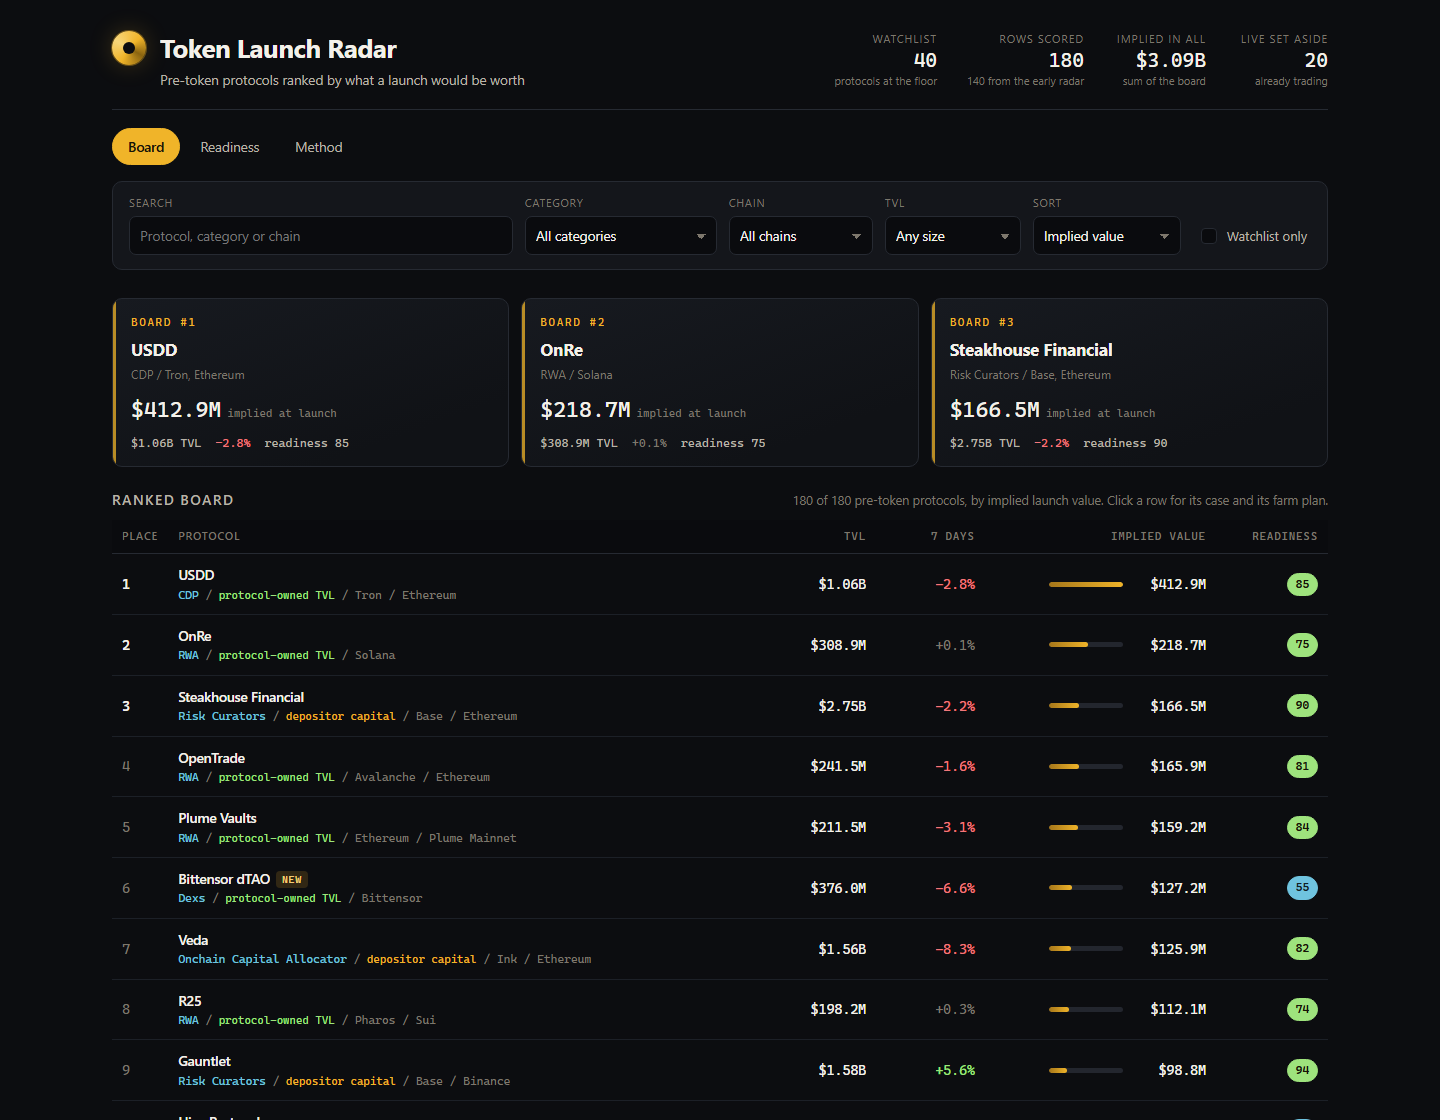
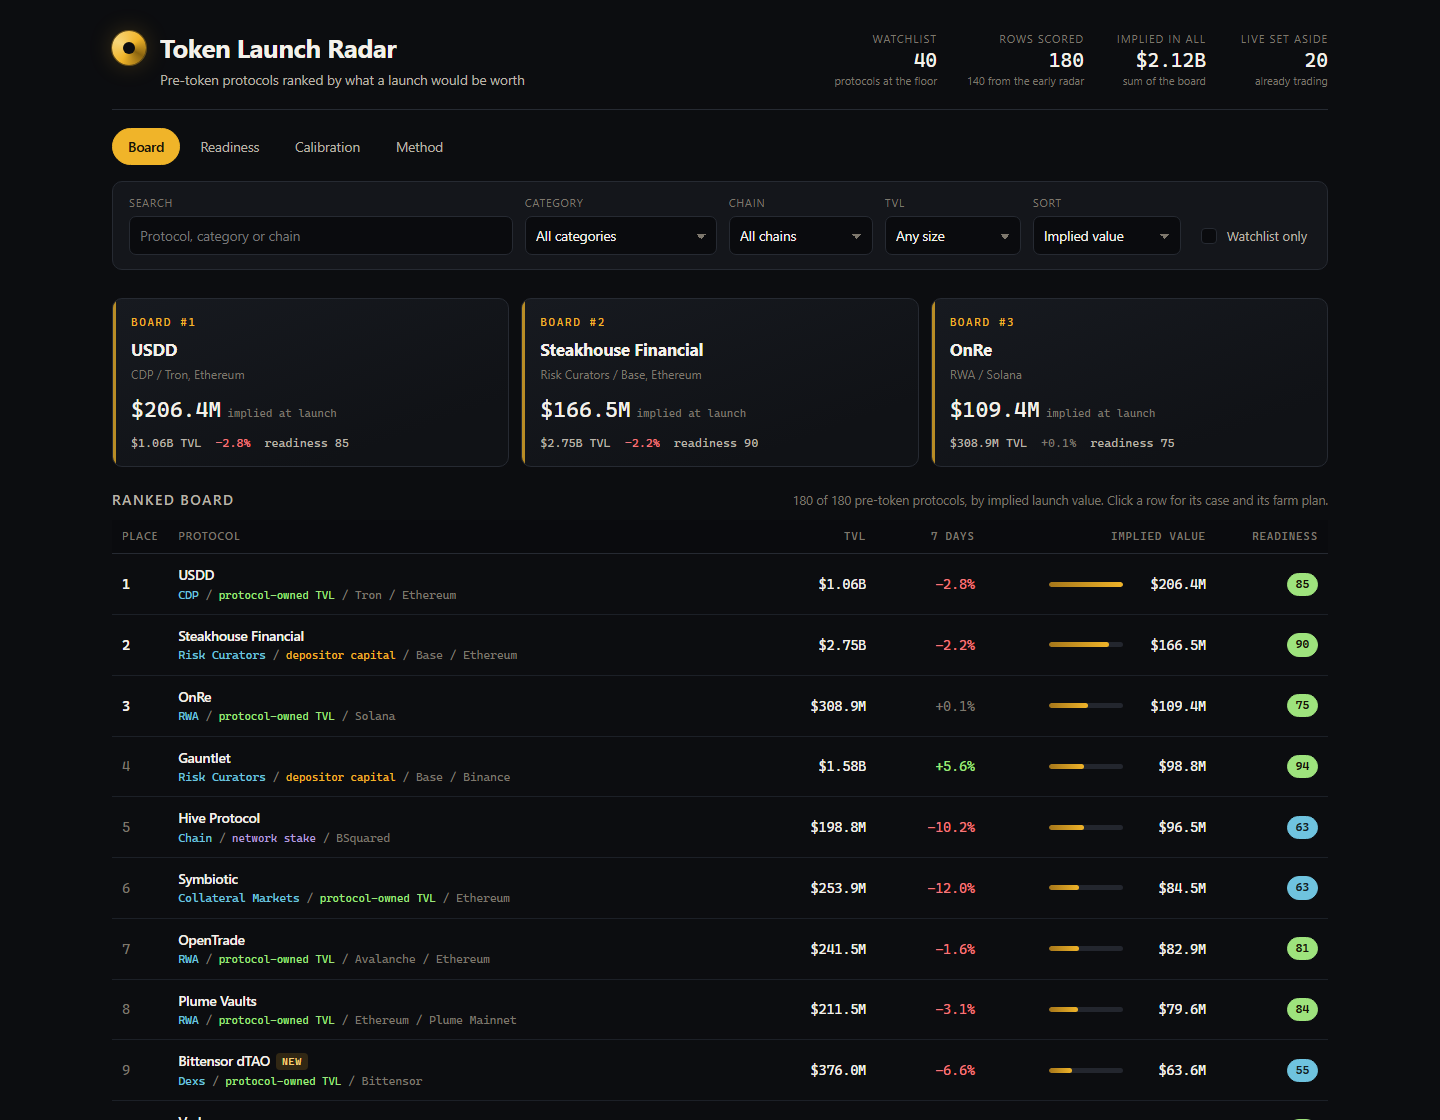
Calibrate the sector multiples on the snapshot's own live protocols

diff --git a/lib/model.ts b/lib/model.ts
@@ -127,7 +127,9 @@ export interface RadarData {
   board_size: number;
   early_size: number;
   live_size: number;
+  launch_discount: number;
   sector_multiples: Record<string, number>;
+  calibration: CategoryEvidence[];
   rows: RadarRow[];
   live: LiveRow[];
 }
@@ -235,6 +237,93 @@ export const TVL_KIND_LABEL: Record<TvlKind, string> = {
 /** The multiple an unlisted category gets: the middle of the run above. */
 export const DEFAULT_SECTOR = 0.3;
 
+/**
+ * A launch is priced below a live market, for two reasons: the token sells into demand that does not
+ * exist yet, and a launch valuation is set before the market has had a chance to disagree. So where a
+ * category already trades in this snapshot, its observed median market cap over TVL is discounted to
+ * become the launch multiple, instead of being copied.
+ */
+export const LAUNCH_DISCOUNT = 0.35;
+
+/** How far the evidence may move a prior: never below half of it, never above two and a half times. */
+export const MULTIPLE_BAND = { low: 0.5, high: 2.5 };
+
+/** The hand-set prior for a category, before the snapshot's own live protocols have a say. */
+export function priorMultiple(category: string | null): number {
+  if (category === null) return DEFAULT_SECTOR;
+  const direct = SECTOR_MULTIPLES[category];
+  if (direct !== undefined) return direct;
+  // DefiLlama keeps adding sub-categories ("Dexs (Derivatives)", "RWA Lending"); match on the stem.
+  const lower = category.toLowerCase();
+  for (const [name, multiple] of Object.entries(SECTOR_MULTIPLES)) {
+    if (lower.startsWith(name.toLowerCase())) return multiple;
+  }
+  return DEFAULT_SECTOR;
+}
+
+/** What a category's live protocols price at: the median market cap over TVL, and how many it is. */
+export interface CategoryEvidence {
+  category: string | null;
+  live: number;
+  observed_median: number | null;
+  prior: number;
+  used: number;
+  source: 'evidence' | 'prior';
+}
+
+/** The median of a list of numbers, or null for an empty list. */
+function median(values: number[]): number | null {
+  if (values.length === 0) return null;
+  const sorted = values.slice().sort((a, b) => a - b);
+  const mid = Math.floor(sorted.length / 2);
+  return sorted.length % 2 === 1 ? sorted[mid]! : (sorted[mid - 1]! + sorted[mid]!) / 2;
+}
+
+/**
+ * Every category's multiple, from the snapshot's own evidence: the median market cap over TVL of the
+ * protocols in that category that already trade, discounted for launch and held inside the band
+ * around the prior. A category with fewer than two live protocols keeps its prior, because one
+ * comparison is an anecdote.
+ */
+export function categoryEvidence(snapshot: Snapshot): CategoryEvidence[] {
+  const groups = new Map<string | null, number[]>();
+  for (const p of snapshot.protocols) {
+    if (isPreToken(p)) continue;
+    if (p.category === 'CEX') continue;
+    if (p.mcap_usd === null || p.mcap_usd <= 0 || p.tvl_usd <= 0) continue;
+    const key = p.category;
+    const list = groups.get(key) ?? [];
+    list.push(p.mcap_usd / p.tvl_usd);
+    groups.set(key, list);
+  }
+  const categories = new Set<string | null>();
+  for (const p of snapshot.protocols) categories.add(p.category);
+  const out: CategoryEvidence[] = [];
+  for (const category of categories) {
+    const ratios = groups.get(category) ?? [];
+    const prior = priorMultiple(category);
+    const observed = ratios.length >= 2 ? median(ratios) : null;
+    let used = prior;
+    let source: 'evidence' | 'prior' = 'prior';
+    if (observed !== null && observed > 0) {
+      const discounted = observed * LAUNCH_DISCOUNT;
+      used = Math.min(prior * MULTIPLE_BAND.high, Math.max(prior * MULTIPLE_BAND.low, discounted));
+      used = Math.round(used * 1e4) / 1e4;
+      source = 'evidence';
+    }
+    out.push({ category, live: ratios.length, observed_median: observed === null ? null : Math.round(observed * 1e4) / 1e4, prior, used, source });
+  }
+  out.sort((a, b) => (a.category ?? '').localeCompare(b.category ?? ''));
+  return out;
+}
+
+/** A lookup from category to the multiple the board used, built from `categoryEvidence`. */
+export function multipleLookup(evidence: CategoryEvidence[]): (category: string | null) => number {
+  const map = new Map<string | null, number>();
+  for (const e of evidence) map.set(e.category, e.used);
+  return (category) => map.get(category) ?? priorMultiple(category);
+}
+
 /** Where a chain's TVL is worth more: deeper liquidity and a livelier token market. */
 export const CHAIN_WEIGHTS: Record<string, number> = {
   Ethereum: 1.15,
@@ -339,9 +428,9 @@ export function isRankable(p: SnapshotProtocol): boolean {
 export function impliedValue(
   p: SnapshotProtocol,
   asOf: string,
+  sector: number = sectorMultiple(p.category),
 ): { implied: number; age: number | null; sector: number; chain: number; growth: number; maturity: number } {
   const age = ageDays(asOf, p.listed_at);
-  const sector = sectorMultiple(p.category);
   const chain = chainMultiplier(p.chains);
   const growth = growthMultiplier(p.change_7d).multiplier;
   const maturity = maturityMultiplier(age);
@@ -577,7 +666,7 @@ function bySlug(protocols: SnapshotProtocol[]): Map<string, SnapshotProtocol> {
 }
 
 /** The protocols the board ranks, strongest first, with ranks 1..n. */
-export function buildBoard(snapshot: Snapshot): BoardRow[] {
+export function buildBoard(snapshot: Snapshot, multipleOf: (category: string | null) => number = priorMultiple): BoardRow[] {
   const index = bySlug(snapshot.protocols);
   const chosen = new Map<string, SnapshotProtocol>();
   // The watchlist is a floor of coverage, never a ceiling: every slug it names is ranked.
@@ -592,7 +681,7 @@ export function buildBoard(snapshot: Snapshot): BoardRow[] {
     .slice(0, EARLY_ROWS);
   for (const p of early) chosen.set(p.slug, p);
 
-  const scored = [...chosen.values()].map((p) => ({ p, ...impliedValue(p, snapshot.as_of) }));
+  const scored = [...chosen.values()].map((p) => ({ p, ...impliedValue(p, snapshot.as_of, multipleOf(p.category)) }));
   scored.sort((a, b) => b.implied - a.implied || (a.p.slug < b.p.slug ? -1 : a.p.slug > b.p.slug ? 1 : 0));
   return scored.map((s, i) => ({
     rank: i + 1,
@@ -640,8 +729,11 @@ export function liveRows(snapshot: Snapshot): LiveRow[] {
 
 /** Everything the page renders, from the snapshot. */
 export function buildRadar(snapshot: Snapshot): { board: BoardRow[]; radar: RadarData } {
-  const board = buildBoard(snapshot);
+  // The live set and the evidence drawn from it come first: the board is priced on them.
   const live = liveRows(snapshot);
+  const calibration = categoryEvidence(snapshot);
+  const multipleOf = multipleLookup(calibration);
+  const board = buildBoard(snapshot, multipleOf);
   const index = bySlug(snapshot.protocols);
   const watchlist = new Set(snapshot.watchlist);
   const rows: RadarRow[] = board.map((row) => {
@@ -682,7 +774,9 @@ export function buildRadar(snapshot: Snapshot): { board: BoardRow[]; radar: Rada
     board_size: board.length,
     early_size: board.filter((r) => !watchlist.has(r.slug)).length,
     live_size: live.length,
+    launch_discount: LAUNCH_DISCOUNT,
     sector_multiples: SECTOR_MULTIPLES,
+    calibration,
     rows,
     live,
   };

diff --git a/dashboard/app.js b/dashboard/app.js
@@ -97,7 +97,7 @@
       state.view = 'detail';
       state.slug = decodeURIComponent(path.slice(2));
     } else {
-      state.view = path === 'radar' || path === 'method' ? path : 'board';
+      state.view = path === 'radar' || path === 'method' || path === 'calibration' ? path : 'board';
       state.slug = null;
     }
   }
@@ -307,6 +307,66 @@
     return html;
   }
 
+  // -------------------------------------------------------------- calibration view
+
+  /** The median of a list of numbers, or null for an empty list. */
+  function median(values) {
+    if (values.length === 0) return null;
+    var sorted = values.slice().sort(function (a, b) { return a - b; });
+    var mid = Math.floor(sorted.length / 2);
+    return sorted.length % 2 ? sorted[mid] : (sorted[mid - 1] + sorted[mid]) / 2;
+  }
+
+  function viewCalibration() {
+    var evidence = R.calibration || [];
+    var ratios = R.live.filter(function (l) { return l.mcap_usd !== null && l.tvl_usd > 0; })
+      .map(function (l) { return l.mcap_usd / l.tvl_usd; });
+    var overall = median(ratios);
+    var repriced = evidence.filter(function (e) { return e.source === 'evidence'; });
+    var html = '<div class="block-head"><h2>Market calibration</h2><p>What the protocols that already trade are worth ' +
+      'against their own TVL, and the multiple the board took from each category because of it.</p></div>';
+    html += '<div class="calib-kpis">' +
+      '<div><span>Live protocols sampled</span><strong>' + R.live.length + '</strong></div>' +
+      '<div><span>Median market cap / TVL</span><strong>' + (overall === null ? 'n/a' : overall.toFixed(2) + 'x') + '</strong></div>' +
+      '<div><span>Categories re-priced on evidence</span><strong>' + repriced.length + ' of ' + evidence.length + '</strong></div>' +
+      '<div><span>Launch discount on that evidence</span><strong>' + Math.round((R.launch_discount || 0.35) * 100) + '%</strong></div>' +
+      '</div>';
+    html += '<div class="cols"><div>';
+    html += '<div class="panel"><h3>Each category the snapshot settles</h3><table class="mult-table"><thead><tr>' +
+      '<th>Category</th><th class="n">Live</th><th class="n">Observed mcap/TVL</th><th class="n">Prior</th><th class="n">Used</th>' +
+      '</tr></thead><tbody>';
+    html += repriced.map(function (e) {
+      return '<tr><td>' + esc(e.category || 'unclassified') + '</td><td class="n">' + e.live + '</td>' +
+        '<td class="n">' + e.observed_median.toFixed(2) + 'x</td>' +
+        '<td class="n dim-cell">' + e.prior.toFixed(2) + 'x</td>' +
+        '<td class="n">' + e.used.toFixed(2) + 'x</td></tr>';
+    }).join('');
+    html += '</tbody></table>' +
+      '<p class="note">A category with two or more live protocols is re-priced: its observed median market cap over ' +
+      'TVL, times the launch discount, held inside half to two and a half times the prior. A category with one live ' +
+      'protocol keeps its prior, because a single comparison is an anecdote; the rest of the snapshot&rsquo;s ' +
+      'categories are priced on the prior alone.</p></div>';
+    html += '<div class="panel"><h3>Every category on the board</h3><table class="mult-table"><thead><tr>' +
+      '<th>Category</th><th class="n">Live</th><th class="n">Multiple used</th><th class="n">Source</th></tr></thead><tbody>';
+    html += evidence.slice().sort(function (a, b) { return b.used - a.used; }).map(function (e) {
+      return '<tr><td>' + esc(e.category || 'unclassified') + '</td><td class="n">' + e.live + '</td>' +
+        '<td class="n">' + e.used.toFixed(2) + 'x</td><td class="n dim-cell">' + esc(e.source) + '</td></tr>';
+    }).join('');
+    html += '</tbody></table></div>';
+    html += '</div><div>';
+    html += '<div class="panel"><h3>The live set</h3><table class="mult-table"><thead><tr>' +
+      '<th>Protocol</th><th class="n">TVL</th><th class="n">Market cap</th><th class="n">mcap/TVL</th></tr></thead><tbody>';
+    html += R.live.map(function (l) {
+      var ratio = l.mcap_usd !== null && l.tvl_usd > 0 ? l.mcap_usd / l.tvl_usd : null;
+      return '<tr><td>' + esc(l.name) + '<span class="dim"> / ' + esc(l.category || 'unclassified') + '</span></td>' +
+        '<td class="n">' + compact(l.tvl_usd) + '</td><td class="n">' + compact(l.mcap_usd) + '</td>' +
+        '<td class="n">' + (ratio === null ? 'n/a' : ratio.toFixed(2) + 'x') + '</td></tr>';
+    }).join('');
+    html += '</tbody></table></div>';
+    html += '</div></div>';
+    return html;
+  }
+
   // -------------------------------------------------------------- method view
 
   function viewMethod() {
@@ -322,8 +382,10 @@
       'fully diluted value, with a range beside it, because one TVL reading is a thin basis for a valuation.</p>' +
       '<h2>The formula</h2>' +
       '<div class="formula">implied = TVL x sector x chain x momentum x maturity\n\n' +
-      'sector    what a dollar of TVL is worth in this category, 0.12x to 0.60x\n' +
-      'chain     the best chain\'s weight, plus 0.02 per extra chain, capped at 4\n' +
+      'sector    the category\'s multiple, from its own live protocols where it has two\n' +
+      '          or more: median market cap / TVL x ' + (R.launch_discount || 0.35) + ', held inside 0.5x to 2.5x\n' +
+      '          of the prior. Elsewhere the prior itself, 0.05x to 0.60x.\n' +
+      'chain     the best chain\'s weight, plus 0.01 per extra chain, capped at 3\n' +
       'momentum  1 + (clamp(change_7d, -50, +100) / 100) x 0.45\n' +
       'maturity  0.85 + min(age_days, 1825) / 1825 x 0.35\n' +
       'range     implied x 0.65 to implied x 1.35</div>' +
@@ -341,7 +403,10 @@
       '<h2>Sector multiples</h2>' +
       '<p>Each multiple is what comparable launches in that category traded at, relative to the TVL the ' +
       'protocol carried before its token. Lending and DEXs sit in the middle; bridges and stablecoins are ' +
-      'cheaper per dollar of TVL because their TVL is not their revenue.</p>' +
+      'cheaper per dollar of TVL because their TVL is not their revenue. The Calibration tab puts this ' +
+      'snapshot\'s own live protocols beside the multiples, category by category, so the anchor is visible ' +
+      'rather than claimed: where a category trades and the sample is more than one protocol, the observed ' +
+      'market cap over TVL is shown next to the multiple the board used and the gap between them.</p>' +
       '<table class="mult-table"><thead><tr><th>Category</th><th class="n">Multiple</th></tr></thead><tbody>' +
       sectors + '</tbody></table>' +
       '<h2>Readiness is a second question</h2>' +
@@ -447,6 +512,7 @@
     renderChips(rows);
     if (state.view === 'detail') view.innerHTML = viewDetail();
     else if (state.view === 'radar') view.innerHTML = viewRadar();
+    else if (state.view === 'calibration') view.innerHTML = viewCalibration();
     else if (state.view === 'method') view.innerHTML = viewMethod();
     else view.innerHTML = viewBoard();
     var colophon = document.getElementById('colophon');

diff --git a/dashboard/app.css b/dashboard/app.css
@@ -1015,6 +1015,53 @@ td.who .tags .cat {
   color: var(--amber);
 }
 
+.mult-table td .dim {
+  color: var(--ink-faint);
+  font-size: 11px;
+}
+
+.mult-table td.dim-cell {
+  color: var(--ink-faint);
+}
+
+.note {
+  margin: 12px 0 0;
+  color: var(--ink-faint);
+  font-size: 12.5px;
+  line-height: 1.55;
+}
+
+.calib-kpis {
+  display: grid;
+  grid-template-columns: repeat(4, 1fr);
+  gap: 12px;
+  margin: 4px 0 18px;
+}
+
+.calib-kpis > div {
+  padding: 14px 16px;
+  background: var(--bg-raised);
+  border: 1px solid var(--line);
+  border-radius: var(--radius);
+}
+
+.calib-kpis span {
+  display: block;
+  color: var(--ink-faint);
+  font-size: 10.5px;
+  letter-spacing: 0.1em;
+  text-transform: uppercase;
+}
+
+.calib-kpis strong {
+  display: block;
+  margin-top: 5px;
+  font-family: var(--mono);
+  font-size: 22px;
+  font-weight: 500;
+  font-variant-numeric: tabular-nums;
+}
+
 /* ---------------------------------------------------------------- misc */
 
 .empty {

diff --git a/dashboard/index.html b/dashboard/index.html
@@ -22,6 +22,7 @@
       <nav class="tabs" id="tabs">
         <button type="button" class="tab is-on" data-view="board">Board</button>
         <button type="button" class="tab" data-view="radar">Readiness</button>
+        <button type="button" class="tab" data-view="calibration">Calibration</button>
         <button type="button" class="tab" data-view="method">Method</button>
       </nav>
 
